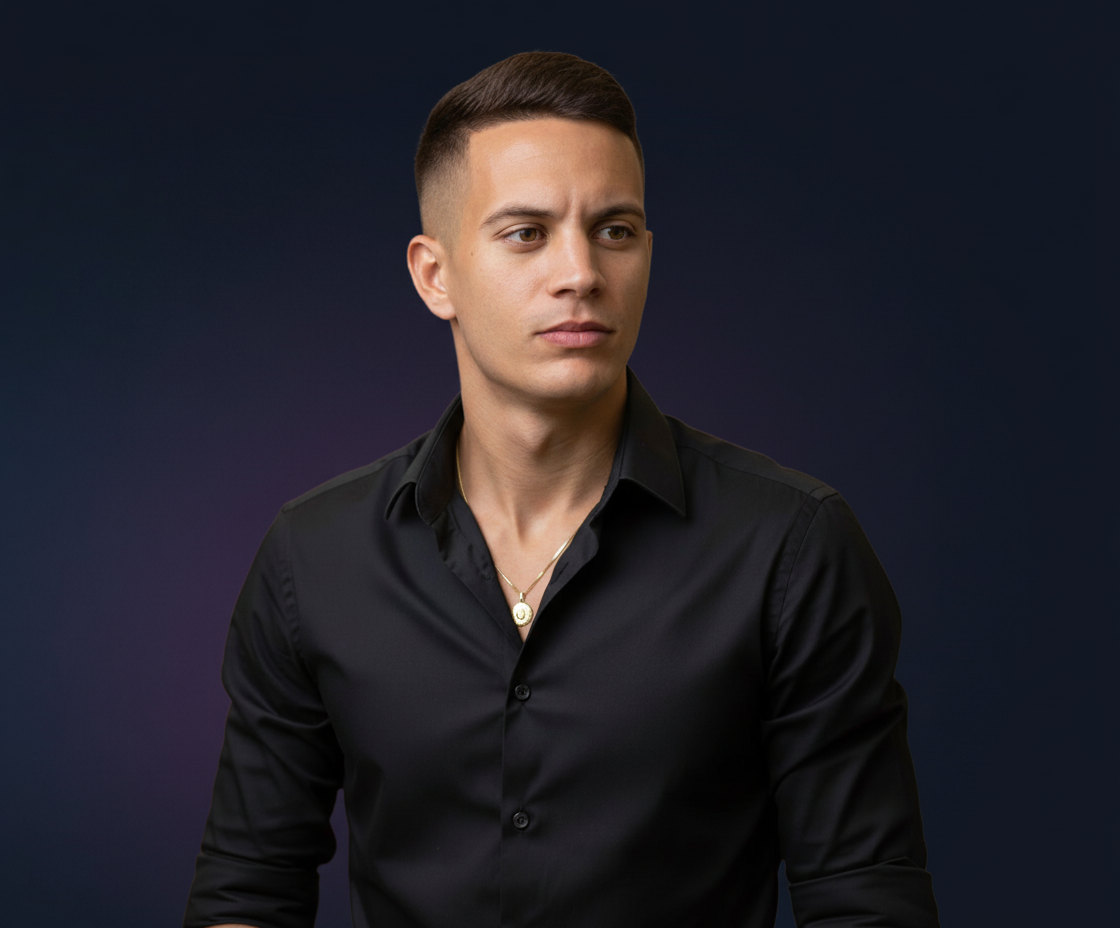
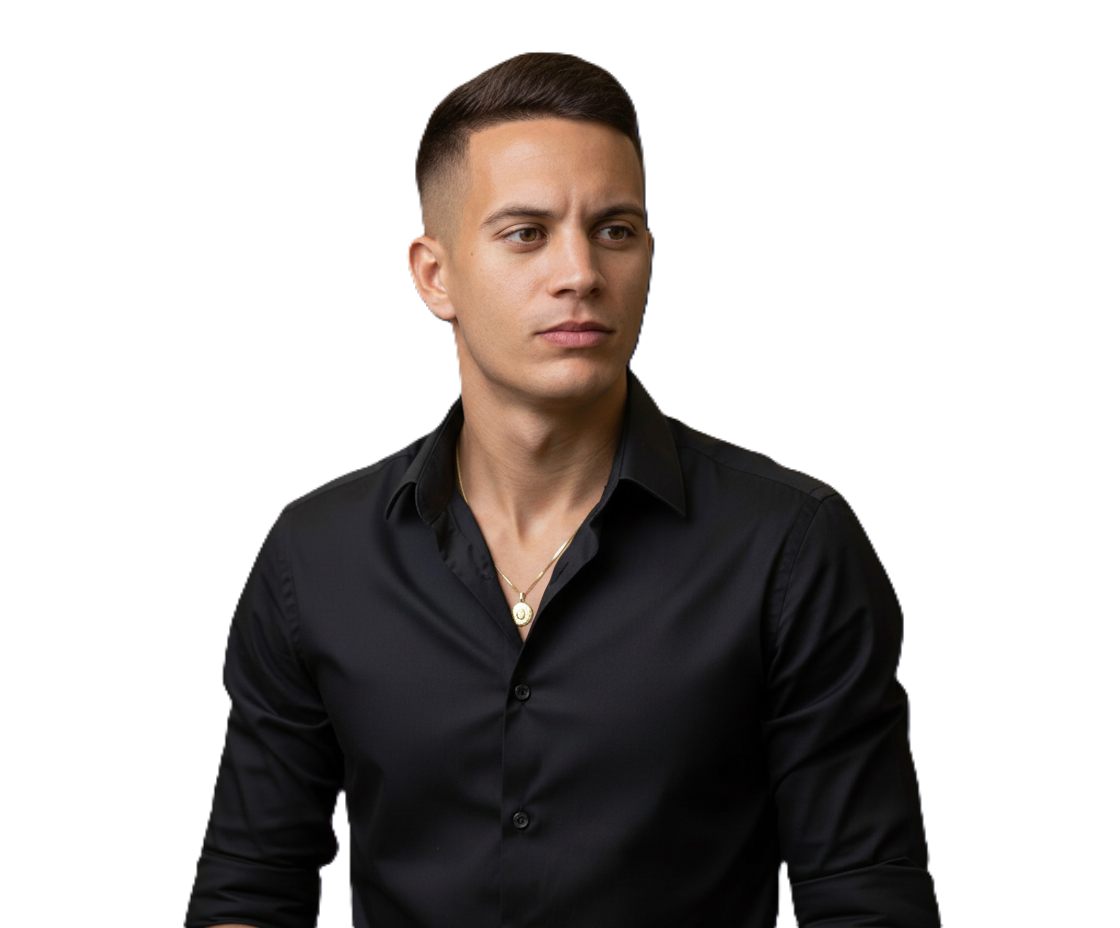
feat(about): create layout structure for About component

diff --git a/src/app/pages/sobre/sobre.component.html b/src/app/pages/sobre/sobre.component.html
@@ -1,0 +1,20 @@
+<div class="flex flex-col xl:flex-row">
+    <div class="xl:w-1/2">
+        <h2 class="w-fit bg-gradient-to-r from-pink-600 to-blue-500 bg-clip-text text-transparent text-4xl xl:text-5xl 2xl:text-6xl 2xl:leading-tight font-bold">
+            DESENVOLVEDOR <br>FULLSTACK</h2>
+        <p class="mt-6 2xl:mt-12 text-white text-lg lg:text-xl 2xl:text-2xl tracking-tight">Bem vindo ao meu portfólio, atuo na criação de aplicações
+            modernas, funcionais e bem estruturadas, sempre
+            buscando unir estética, performance e experiência do usuário em cada projeto.
+            Este portfólio reúne alguns dos meus principais trabalhos, refletindo minha evolução constante como
+            desenvolvedor, Aqui você encontrará projetos que demonstram minha forma de pensar, resolver problemas e
+            transformar ideias em produtos digitais reais.
+        </p>
+    
+        <button class="text-white tracking-wide mt-6 2xl:mt-12 p-3 2xl:p-5 bg-gradient-to-r from-pink-900 to-blue-500 hover:from-pink-950 hover:to-blue-800 rounded-2xl cursor-pointer">VIZUALIZAR PROJETOS</button>
+    
+    </div>
+    <div class="xl:w-1/2 2xl:mt-20">
+        <img src="img/me.png" alt="me">
+    </div>
+    
+</div>
